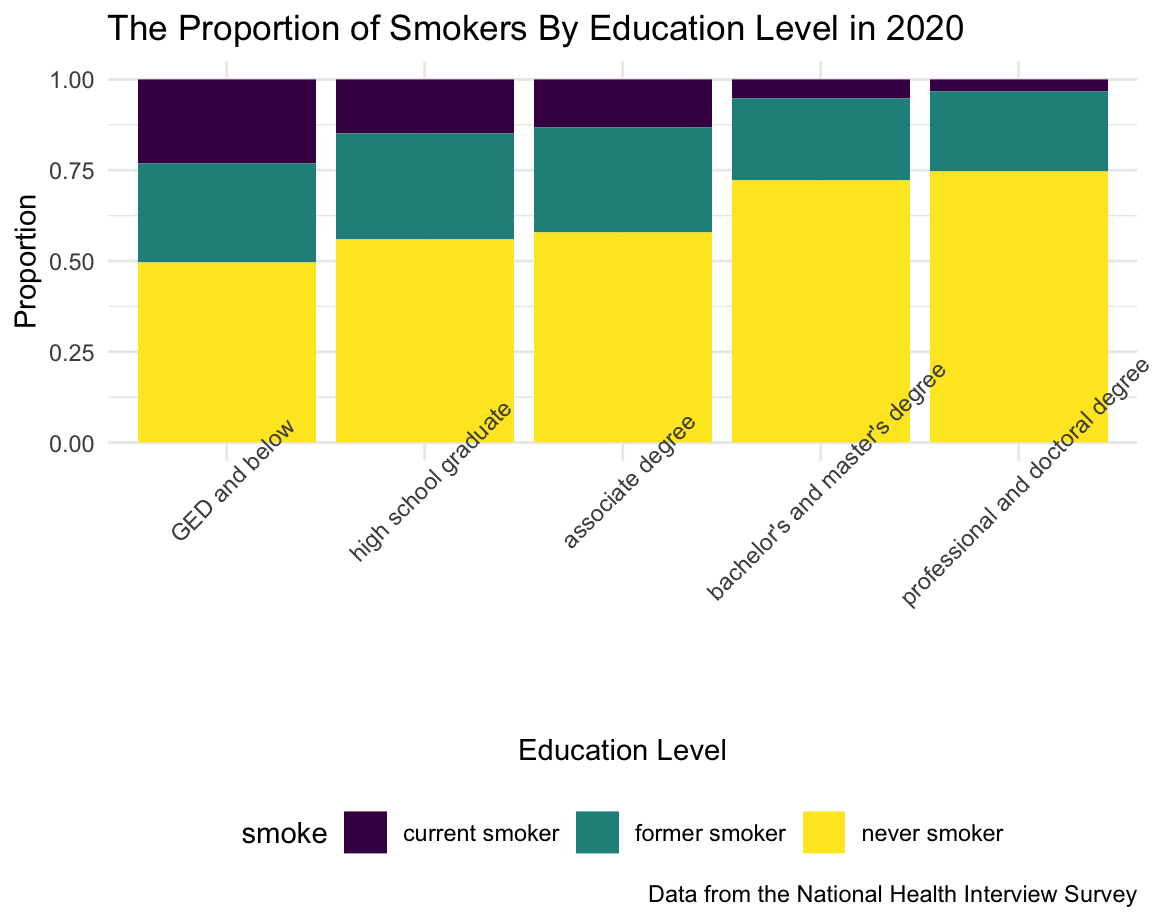
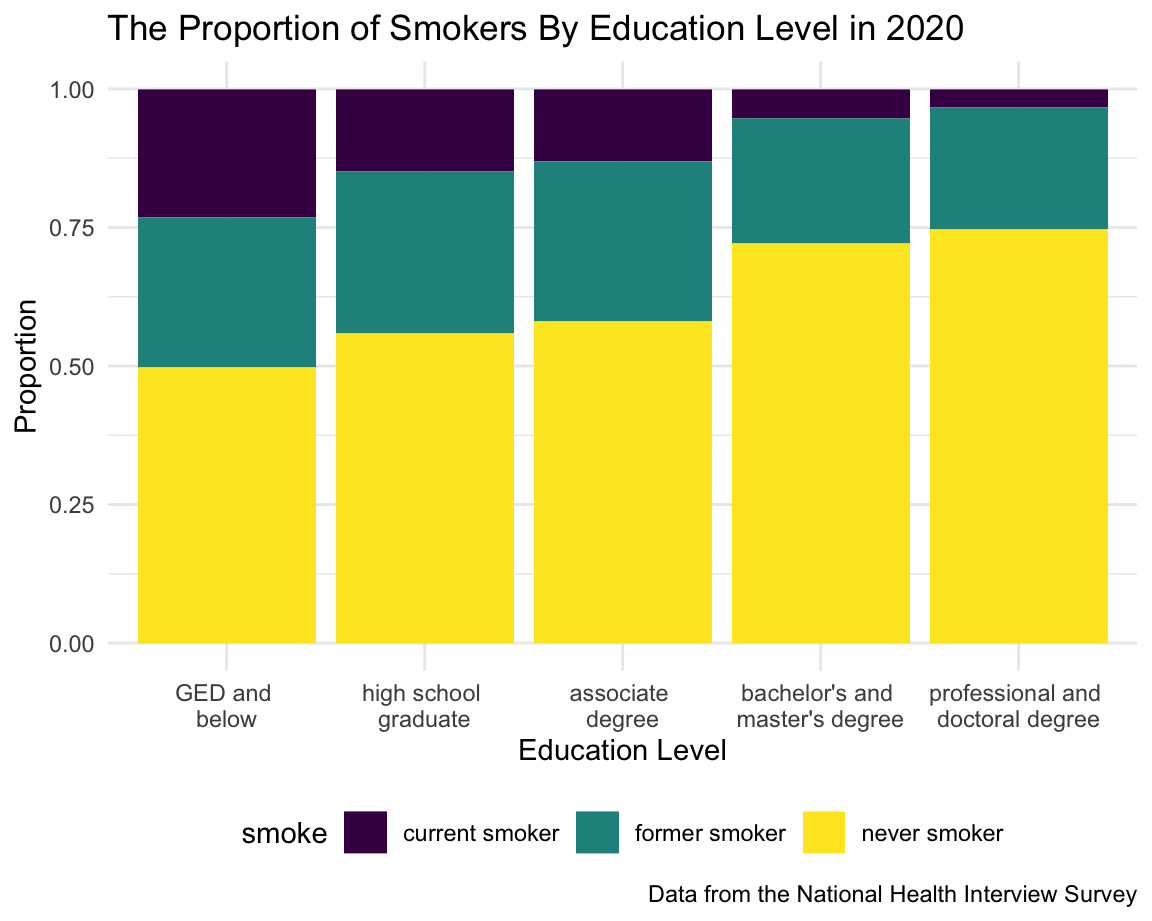
change label angle

diff --git a/smoking_and_covid19.html b/smoking_and_covid19.html
@@ -493,7 +493,7 @@ education_df %&gt;%
     y = &quot;Proportion&quot;,
     caption = &quot;Data from the National Health Interview Survey&quot;
   ) +
-  theme(axis.text.x = element_text(angle = 45))</code></pre>
+  scale_x_discrete(labels = c(&quot;GED and \nbelow&quot;, &quot;high school \ngraduate&quot;, &quot;associate \ndegree&quot;, &quot;bachelor&#39;s and \nmaster&#39;s degree&quot;, &quot;professional and \ndoctoral degree&quot;))</code></pre>
 <p><img src="smoking_and_covid19_files/figure-html/smoker_by_education-1.png" width="90%" /></p>
 </div>
 <div id="race" class="section level2">
